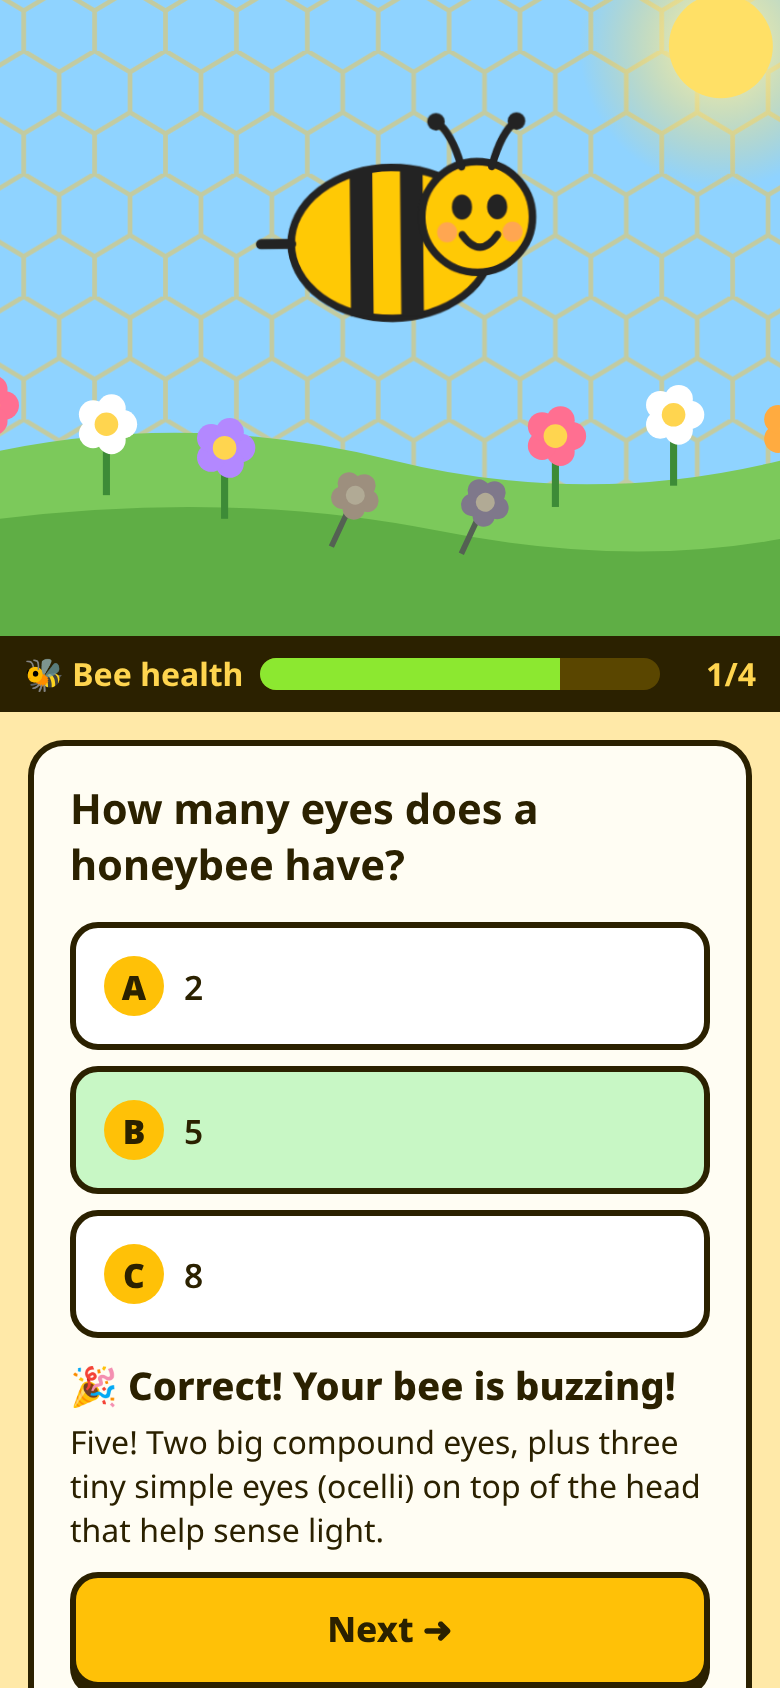
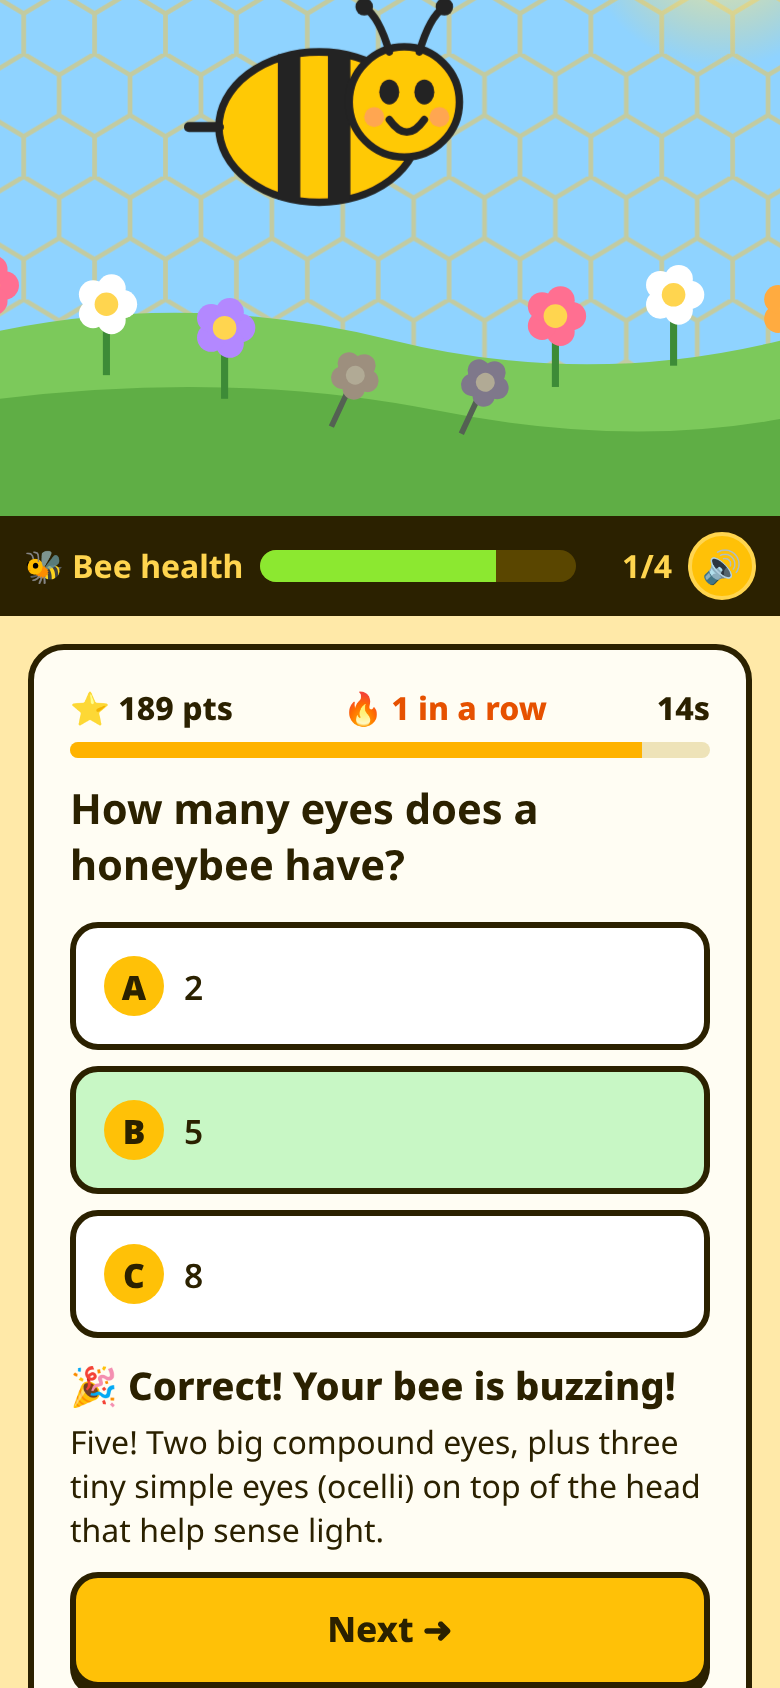
Flying bee, voice sounds, timer bonus, honey shield, daily streak

diff --git a/game.js b/game.js
@@ -2,7 +2,7 @@
 try{if(window.self!==window.top)document.documentElement.classList.add("framed")}catch(e){document.documentElement.classList.add("framed")}
 const $=s=>document.querySelector(s);
 const params=new URLSearchParams(location.search);
-let quiz,i=0,score=0,health=60;
+let quiz,i=0,score=0,health=60,points=0,run=0,shield=false,tStart=0,tInt=0;const TLIM=15;
 const HIT=15,MISS=20;
 const NS="http://www.w3.org/2000/svg",fl=$("#flowers");
 const flowers=[];
@@ -11,6 +11,21 @@ const flowers=[];
  let p=`<path d="M${x} ${y}v-28" stroke="#3d8b37" stroke-width="3"/>`;
  for(let k=0;k<5;k++){const a=k*72*Math.PI/180;p+=`<circle cx="${x+Math.cos(a)*7}" cy="${y-30+Math.sin(a)*7}" r="6" fill="${c}"/>`}
  g.innerHTML=p+`<circle cx="${x}" cy="${y-30}" r="5" fill="#ffd54f"/>`;fl.appendChild(g);flowers.push(g)});
+const bee={x:200,y:140,face:1,sc:1,droop:0,flying:false,t:0,raf:0};
+function placeBee(){const y=bee.flying?bee.y:140+bee.droop;$("#bee").setAttribute("transform",`translate(${bee.x.toFixed(1)} ${(bee.flying?bee.y:y).toFixed(1)}) scale(${(bee.sc*bee.face).toFixed(3)} ${bee.sc.toFixed(3)})`)}
+function wander(){cancelAnimationFrame(bee.raf);bee.flying=true;let last=performance.now();
+ const step=now=>{const dt=Math.min(50,now-last)/1000;last=now;bee.t+=dt*0.55;const t=bee.t;
+  const nx=200+130*Math.sin(t)*Math.cos(t*0.37), ny=125+45*Math.sin(t*1.7+1)+bee.droop*0.5;
+  if(Math.abs(nx-bee.x)>0.05)bee.face=nx>bee.x?1:-1;bee.x=nx;bee.y=ny;placeBee();bee.raf=requestAnimationFrame(step)};
+ bee.raf=requestAnimationFrame(step)}
+function flyCenter(ms){cancelAnimationFrame(bee.raf);return new Promise(res=>{const x0=bee.x,y0=bee.y,x1=170,y1=135,s=performance.now();
+ const step=now=>{const k=Math.min(1,(now-s)/ms),e=k<.5?2*k*k:1-Math.pow(-2*k+2,2)/2;bee.x=x0+(x1-x0)*e;bee.y=y0+(y1-y0)*e;
+  bee.face=x1>=x0?1:-1;if(k>=1)bee.face=1;placeBee();k<1?bee.raf=requestAnimationFrame(step):res()};bee.raf=requestAnimationFrame(step)})}
+let actx,bufs={},soundOn=localStorage.getItem("beeSound")!=="off";
+function snd(){$("#snd").textContent=soundOn?"🔊":"🔇"}
+async function unlock(){if(actx){actx.resume();return}try{actx=new (window.AudioContext||window.webkitAudioContext)();actx.resume();
+ for(const n of["woohoo","aww"]){fetch(`sounds/${n}.mp3`).then(r=>r.arrayBuffer()).then(b=>actx.decodeAudioData(b)).then(d=>bufs[n]=d).catch(()=>{})}}catch(e){}}
+function play(n){if(!soundOn||!actx||!bufs[n])return 0;const s=actx.createBufferSource();s.buffer=bufs[n];s.connect(actx.destination);s.start();return bufs[n].duration}
 function render(){
  $("#hfill").style.width=health+"%";$("#hfill").style.background=`hsl(${Math.round(health*1.2)} 80% 55%)`;
  const sick=health<40,B=document.body.style;document.body.classList.toggle("sick",sick);document.body.classList.toggle("strong",health>=80);
@@ -18,7 +33,7 @@ function render(){
  B.setProperty("--sat",Math.min(1.3,0.15+health/100*1.15).toFixed(2));B.setProperty("--bri",(0.85+health/100*0.25).toFixed(2));
  $("#mouth").setAttribute("d",health>=70?"M28-3q7 10 14 0":health>=40?"M28 0h14":"M28 2q7-8 14 0");
  const sc=(0.8+health/100*0.35).toFixed(2);
- $("#bee").setAttribute("transform",`translate(200 ${140+Math.round((100-health)*0.6)-20}) scale(${sc})`);
+ bee.sc=+sc;bee.droop=Math.round((100-health)*0.6)-20;if(!bee.flying)placeBee();
  const alive=Math.round(health/100*flowers.length);
  flowers.forEach((f,k)=>f.classList.toggle("wilt",k>=alive));
 }
@@ -36,25 +51,34 @@ async function load(){
  }catch(e){$("#qtitle").textContent="Couldn't load the quiz. Please refresh."}
  render();
 }
-function ask(){
+function ask(){bee.picked=false;
  const q=quiz.questions[i];$("#qnum").textContent=`${i+1}/${quiz.questions.length}`;
  $("#question").textContent=q.q;$("#feedback").classList.add("hidden");
  const box=$("#choices");box.innerHTML="";
  q.choices.forEach((c,k)=>{const b=document.createElement("button");b.className="choice";
   b.innerHTML=`<b>${"ABCD"[k]}</b><span></span>`;b.querySelector("span").textContent=c;
   b.onclick=()=>pick(k);box.appendChild(b)});
- show("quiz");$("#quiz").style.animation="none";void $("#quiz").offsetWidth;$("#quiz").style.animation="";
+ bee.x=200;wander();show("quiz");upMeta();clearInterval(tInt);tStart=performance.now();
+ tInt=setInterval(()=>{const left=Math.max(0,TLIM-(performance.now()-tStart)/1000);$("#tfill").style.width=left/TLIM*100+"%";$("#tsec").textContent=Math.ceil(left)+"s";
+  if(left<=0){clearInterval(tInt);pick(-1)}},200);$("#quiz").style.animation="none";void $("#quiz").offsetWidth;$("#quiz").style.animation="";
 }
-function pick(k){
- const q=quiz.questions[i],ok=k===q.answer,bs=[...document.querySelectorAll(".choice")];
- bs.forEach(b=>b.disabled=true);bs[q.answer].classList.add("right");if(!ok)bs[k].classList.add("wrong");
+function upMeta(){$("#pts").textContent=`⭐ ${points} pts`;$("#streak").textContent=shield?"🛡 Honey shield!":run?`🔥 ${run} in a row`:""}
+function pick(k){clearInterval(tInt);if(bee.picked)return;bee.picked=true;
+ const used=(performance.now()-tStart)/1000,q=quiz.questions[i],ok=k===q.answer,bs=[...document.querySelectorAll(".choice")];
+ bs.forEach(b=>b.disabled=true);bs[q.answer].classList.add("right");if(!ok&&k>=0)bs[k].classList.add("wrong");
+ if(ok){points+=100+Math.round(Math.max(0,TLIM-used)/TLIM*100)}bee.timeout=k<0;
+ bee.busy=true;flyCenter(650).then(()=>{bee.flying=false;bee.x=170;const d=play(ok?"woohoo":"aww");setTimeout(()=>result(q,ok),Math.min(900,(d||0.3)*1000*0.7))});
+}
+function result(q,ok){
  if(ok){score++;health=Math.min(100,health+HIT);pulse("cheer");flowers.forEach(f=>{f.classList.remove("bloom");void f.offsetWidth;f.classList.add("bloom")})}
- else{health=Math.max(5,health-MISS);pulse("oops")}
- $("#verdict").textContent=ok?["🎉 Correct! Your bee is buzzing!","🌼 Yes! She perks right up!","✅ Nailed it!"][i%3]:"😢 Oops! Your bee is drooping…";
+ if(ok){run++;if(run>=3&&!shield){shield=true;run=0;bee.newShield=true}}
+ else{run=0;if(shield){shield=false;bee.blocked=true}else health=Math.max(5,health-MISS);pulse("oops")}
+ $("#shield").classList.toggle("hidden",!shield);upMeta();
+ $("#verdict").textContent=ok?["🎉 Correct! Your bee is buzzing!","🌼 Yes! She perks right up!","✅ Nailed it!"][i%3]:(bee.blocked?"🛡 Honey shield blocked it! No health lost.":(bee.timeout?"⏰ Time’s up! ":"😢 Oops! ")+"Your bee is drooping…");if(bee.newShield)$("#verdict").textContent+=" 🛡 3 in a row: honey shield earned!";bee.blocked=bee.newShield=false;
  $("#fact").textContent=q.fact;$("#next").textContent=i+1<quiz.questions.length?"Next ➜":"See results";
  $("#feedback").classList.remove("hidden");render();$("#feedback").scrollIntoView({behavior:"smooth",block:"nearest"});
 }
-function end(){
+function end(){cancelAnimationFrame(bee.raf);bee.flying=false;bee.x=200;placeBee();
  const n=quiz.questions.length;
  const [t,m]=health>=75?["🌻 Your bee is thriving!","Amazing! The hive is happy and the meadow is in full bloom."]:health>=45?["🙂 Your bee is doing okay","Not bad! A little more bee knowledge and she'll be thriving."]:["🥀 Your bee needs help!","She's feeling droopy. Watch a few Stevie Bee Shorts and try again!"];
  $("#endTitle").textContent=t;$("#score").textContent=`${score} / ${n}`;$("#endMsg").textContent=m;$("#qnum").textContent="";
@@ -64,7 +88,15 @@ function end(){
  ["arms","speed","sparkles"].forEach(x=>$("#"+x).classList.toggle("hidden",!buff));
  if(dead){$("#endTitle").textContent="💀 Oh no!";bm.textContent="Try again to save the bee!";$("#endMsg").textContent="Our bee ran out of buzz… but bees are tough. One more try?";$("#mouth").setAttribute("d","M28 0q7 6 14 0");$("#bee").setAttribute("transform","translate(200 200) rotate(180) scale(.85)")}
  if(buff){$("#endTitle").textContent="💪 BUFF BEE!";bm.textContent="Perfect score!";$("#endMsg").textContent="Every answer right! Your bee is pumped up and zooming around the meadow!"}
- bm.classList.toggle("hidden",!(dead||buff));
+ bm.classList.toggle("hidden",!(dead||buff));$("#shield").classList.add("hidden");
+ $("#pointsEnd").textContent=`⭐ ${points} points`;
+ const bk="beeBest:"+quiz.id,best=+localStorage.getItem(bk)||0;if(points>best)localStorage.setItem(bk,points);
+ $("#best").textContent=points>best&&best?`🏆 New personal best! (old: ${best})`:points>best?"🏆 Personal best set!":`🏆 Personal best: ${best}`;
+ const dy=$("#days");dy.classList.add("hidden");
+ if(score*2>=n){const today=new Date().toLocaleDateString("en-CA"),y=new Date(Date.now()-864e5).toLocaleDateString("en-CA");
+  let s={};try{s=JSON.parse(localStorage.getItem("beeDays"))||{}}catch(e){}
+  if(s.last!==today){s.n=s.last===y?(s.n||0)+1:1;s.last=today;localStorage.setItem("beeDays",JSON.stringify(s))}
+  dy.textContent=`🐝 Your bee survived ${s.n} day${s.n>1?"s":""} in a row!`;dy.classList.remove("hidden")}
  show("end");if(health>=75&&!buff)pulse("cheer");
 }
 const shareUrl=()=>location.origin+location.pathname+(quiz?`?quiz=${quiz.id}`:"");
@@ -72,10 +104,10 @@ const shareText=()=>`I scored ${score}/${quiz.questions.length} on the Stevie Be
 async function copy(){try{await navigator.clipboard.writeText(shareUrl())}catch(e){const t=document.createElement("textarea");t.value=shareUrl();document.body.appendChild(t);t.select();document.execCommand("copy");t.remove()}
  $("#copied").classList.remove("hidden");setTimeout(()=>$("#copied").classList.add("hidden"),2000)}
 $("#share").onclick=async()=>{if(navigator.share){try{await navigator.share({title:"Save the Bee!",text:shareText(),url:shareUrl()})}catch(e){}}else copy()};
-$("#copy").onclick=copy;
-$("#go").onclick=()=>{reset();i=0;score=0;health=60;render();ask()};
+$("#copy").onclick=copy;snd();$("#snd").onclick=()=>{soundOn=!soundOn;localStorage.setItem("beeSound",soundOn?"on":"off");snd();if(soundOn)unlock()};
+$("#go").onclick=()=>{unlock();reset();points=0;run=0;shield=false;i=0;score=0;health=60;render();ask()};
 $("#next").onclick=()=>{i++;i<quiz.questions.length?ask():end()};
-$("#again").onclick=()=>{reset();health=60;render();show("start")};
+$("#again").onclick=()=>{reset();clearInterval(tInt);health=60;render();show("start")};
 function reset(){document.body.classList.remove("dead","buff","cheer","oops");["xeyes","legs","halo","arms","speed","sparkles"].forEach(x=>$("#"+x).classList.add("hidden"));$("#eyes").classList.remove("hidden")}
 load();
 })();

diff --git a/index.html b/index.html
@@ -12,7 +12,7 @@
   <circle cx="340" cy="50" r="60" fill="url(#sun)"/><circle cx="340" cy="50" r="22" fill="#ffe066"/>
   <path d="M0 230Q100 200 200 225T400 215V300H0z" fill="#7cc95b"/><path d="M0 255Q120 235 220 255T400 250V300H0z" fill="#5fae45"/>
   <g id="flowers"></g>
-  <g id="bee" transform="translate(200 140)"><g id="beeInner">
+  <g id="bee" transform="translate(200 140)"><ellipse id="shield" class="hidden" cx="10" cy="-8" rx="72" ry="62" fill="rgba(255,193,7,.25)" stroke="#ffb300" stroke-width="4"/><g id="beeInner">
    <ellipse class="wing" id="wl" cx="-10" cy="-26" rx="16" ry="24" fill="#e8f7ff" stroke="#9cc" opacity=".9"/>
    <ellipse class="wing" id="wr" cx="12" cy="-26" rx="16" ry="24" fill="#e8f7ff" stroke="#9cc" opacity=".9"/>
    <ellipse cx="0" cy="0" rx="40" ry="30" fill="#ffc107" stroke="#222" stroke-width="3"/>
@@ -31,7 +31,7 @@
   <g id="speed" class="hidden" stroke="#fff" stroke-width="4" stroke-linecap="round" opacity=".9"><path d="M20 80h60M10 120h80M30 160h50M300 70h70M320 110h60M290 190h80"/></g>
   <g id="sparkles" class="hidden" fill="#fff59d"><path d="M60 50l4 10 10 4-10 4-4 10-4-10-10-4 10-4z"/><path d="M330 150l3 8 8 3-8 3-3 8-3-8-8-3 8-3z"/><path d="M150 40l3 8 8 3-8 3-3 8-3-8-8-3 8-3z"/><path d="M260 30l4 10 10 4-10 4-4 10-4-10-10-4 10-4z"/></g>
  </svg>
- <div id="hud"><div id="hlabel">🐝 Bee health</div><div id="hbar"><div id="hfill"></div></div><div id="qnum"></div></div>
+ <div id="hud"><div id="hlabel">🐝 Bee health</div><div id="hbar"><div id="hfill"></div></div><div id="qnum"></div><button id="snd" aria-label="Sound on/off" title="Sound on/off">🔊</button></div>
  <main id="panel">
   <section id="start" class="card">
    <h1>Save the Bee!</h1><p id="qtitle" class="sub">Loading quiz…</p>
@@ -39,9 +39,9 @@
    <button id="go" class="big" disabled>▶ Play</button>
    <p class="tiny">A quiz from <a href="https://www.youtube.com/@steviebee-v2z3o" target="_blank" rel="noopener">Stevie Bee</a> – bee removal &amp; beekeeping</p>
   </section>
-  <section id="quiz" class="card hidden"><h2 id="question"></h2><div id="choices"></div>
+  <section id="quiz" class="card hidden"><div id="qmeta"><span id="pts">⭐ 0 pts</span><span id="streak"></span><span id="tsec">15s</span></div><div id="tbar"><div id="tfill"></div></div><h2 id="question"></h2><div id="choices"></div>
    <div id="feedback" class="hidden"><p id="verdict"></p><p id="fact"></p><button id="next" class="big">Next ➜</button></div></section>
-  <section id="end" class="card hidden"><h2 id="endTitle"></h2><p id="bigMsg" class="bigmsg hidden"></p><p id="score" class="score"></p><p id="endMsg"></p>
+  <section id="end" class="card hidden"><h2 id="endTitle"></h2><p id="bigMsg" class="bigmsg hidden"></p><p id="score" class="score"></p><p id="pointsEnd" class="sub"></p><p id="endMsg"></p><p id="days" class="days hidden"></p><p id="best" class="tiny"></p>
    <div class="row"><button id="share" class="big">📤 Share</button><button id="copy" class="big alt">🔗 Copy link</button></div>
    <p id="copied" class="tiny hidden">Link copied!</p>
    <a class="btn yt" href="https://www.youtube.com/@steviebee-v2z3o/shorts" target="_blank" rel="noopener">▶ Watch more on YouTube</a>

diff --git a/style.css b/style.css
@@ -51,3 +51,10 @@ button,.btn{font:inherit;cursor:pointer}
 @keyframes pop{0%{transform:scale(.3)}70%{transform:scale(1.15)}}
 .framed #scene{height:34vh;min-height:150px}.framed #panel{padding:10px}.framed h1{font-size:1.6rem}
 @media (max-width:360px){.big,.btn{font-size:1rem;padding:11px}.choice{padding:11px}}
+
+#snd{background:#ffc107;border:2px solid #ffd54f;border-radius:50%;width:34px;height:34px;font-size:1rem;padding:0;line-height:1}
+
+#qmeta{display:flex;justify-content:space-between;font-weight:800;margin-bottom:6px}#streak{color:#e65100}
+#tbar{height:8px;background:#eee3b8;border-radius:5px;overflow:hidden;margin-bottom:12px}#tfill{height:100%;width:100%;background:#ffb300}
+#shield{animation:glow 1s ease-in-out infinite alternate;filter:drop-shadow(0 0 8px #ffd54f)}@keyframes glow{to{opacity:.55}}
+.days{background:#fff3c4;border:2px dashed #ffb300;border-radius:12px;padding:8px;font-weight:800;text-align:center}
